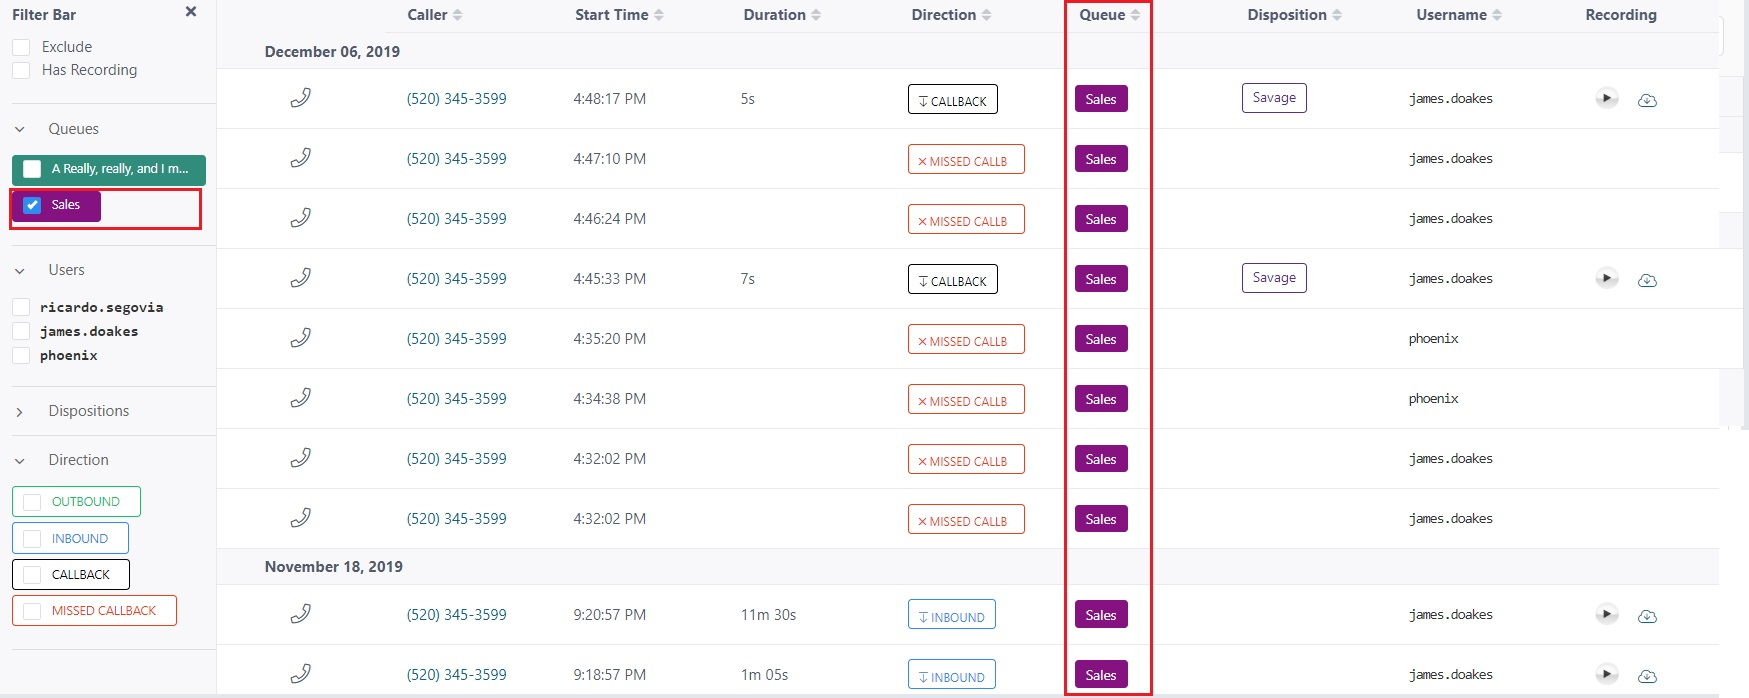
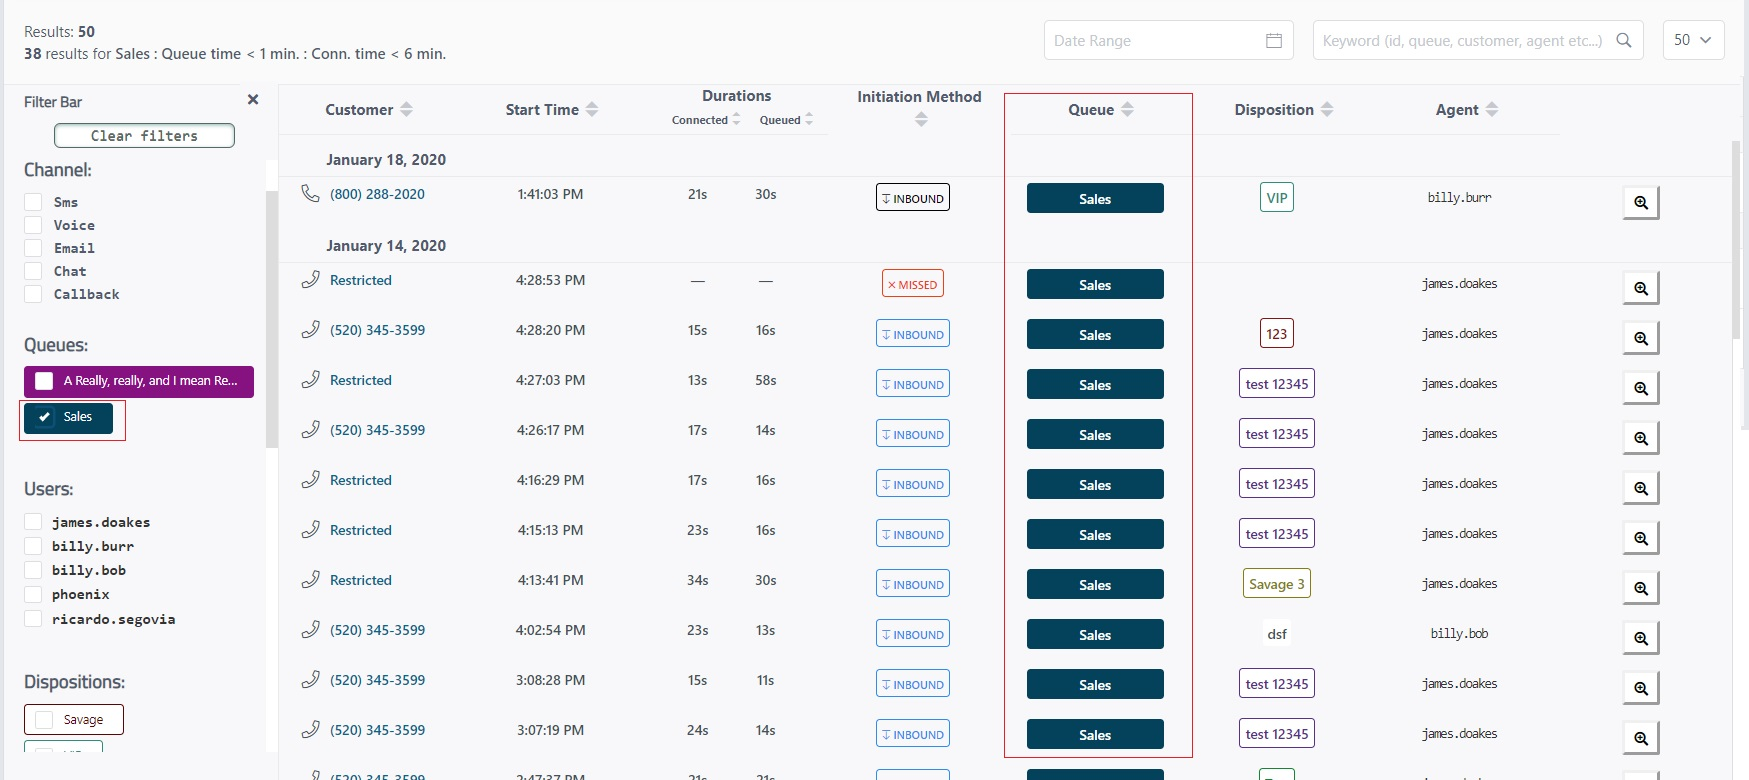
added release notes 0.9.0, edited engage, home, activity, directory

diff --git a/docs/_release_notes/release-v0.9.0-2020-01-19.md b/docs/_release_notes/release-v0.9.0-2020-01-19.md
@@ -1,0 +1,71 @@
+---
+title: "v0.9.0"
+excerpt_separator: "<!--more-->"
+collection: release_notes
+permalink: /:categories/:title/
+date: 2020-01-19
+layout: single
+toc: true
+toc_sticky: true
+categories:
+  - Release Notes
+sidebar:
+  nav: "docs"
+---
+
+## Dextr Release Notes, January 2020
+### Supported Browsers: 
+
+Google Chrome Version 75.0.3770.100 or later. Welcome to the January 2020 release of Dextr. 
+
+There are a number of updates in this version that we hope you like, and some of the key highlights include: 
+
+### Ad-hoc Quick-Connects
+
+Directory entries created in Dextr are now Amazon Connect quick connects. This allows agents to use them for transfer and conference destinations while on a call.
+
+<figure>
+   <img src="{{ '/assets/images/transfer-directory-contacts.jpg' }}" alt="Transfer Directory Contacts">
+   <span>Figure 1. Quick Connect / Directory Contacts</span>
+</figure>
+----
+
+### Global Directory
+
+Create directory entries that all agents can use for click-to-call, transferring and conferencing. 
+
+<figure>
+   <img src="{{ '/assets/images/global-contacts.jpg' }}" alt="Global Contacts">
+   <span>Figure 2. Global Directory entries</span>
+</figure>
+----
+
+### Team Status Durations 
+
+The team status drawer now shows status durations alongside each team member’s current status. You can check more information about this in [Home](/home/), in the Team Status Drawer section.
+
+<figure>
+   <img src="{{ '/assets/images/status-duration.jpg' }}" alt="Agent Status Duration">
+   <span>Figure 3. Team Status Duration</span>
+</figure>
+----
+
+### New Activity filters
+
+Filter current activity result set by Channel (Voice, Chat, Email, SMS and Callbacks), by Queued and Connected Durations. You can check more information about this in [Activity](/activity/).
+
+<figure>
+   <img src="{{ '/assets/images/activity-channel.jpg' }}" alt="Activity Channel">
+   <span>Figure 4. Activity  New Filters / Queue Duration </span>
+</figure>
+----
+
+### Bug fixes
+
+- Intermittently, the team status drawer wouldn't show an agent’s connected phone number.
+- Intermittently, an agent’s connected duration would not match with default CCP.
+- Notes added during a call wouldn't be shown in activity details page. 
+
+### Insiders: 
+
+Want to see new features as soon as possible? You can enroll in the beta program by emailing your Instance Alias to beta@dextr.cloud.  Try out the latest updates as soon as they are available.  

diff --git a/docs/_pages/activity.md b/docs/_pages/activity.md
@@ -49,12 +49,21 @@ Located at the left corner, it is used to filter and sort calls by:
 - Users. 
 - Direction. 
 - Disposition (if enabled). 
+- Channel.
+- Duration.
 
-If you click the label in one of the records corresponding to either Direction, Queue, Disposition or Username you also activate the filter.
+As of v0.9.0, Dextr enhanced the looks of the Activity dashboard. If you click the label in one of the records corresponding to either Direction, Queue, Disposition or Username you also activate the filter functionality (Figure 3).
 
 <figure>
    <img src="{{ '/assets/images/filter-bar.jpg' }}" alt="Filter bar">
-   <span>Figure 3. Filter bar</span>
+   <span>Figure 3. Filter bar functionality on dashboard</span>
+</figure>
+
+There is also Channel (SMS, Email, Voice, Chat, Callback) and Durations (Queued or Connected) filters to help you accomodate your search.
+
+<figure>
+   <img src="{{ '/assets/images/activity-durations-filter.jpg' }}" alt="Filter bar duration">
+   <span>Figure 4. Filter Bars Durations</span>
 </figure>
 ----
 
@@ -64,14 +73,14 @@ In the right corner of the dashboard there is a zoom icon that if clicked, enhan
 
 <figure>
    <img src="{{ '/assets/images/activity-details-1.jpg' }}" alt="Activity Details 1">
-   <span>Figure 4. Activity Dashboard Zoom Icon</span>
+   <span>Figure 5. Activity Dashboard Zoom Icon</span>
 </figure>
 
 This will show a richer metric view through different sections (General, Agent, Queue, Attributes). You also have the option to keep track of the interactions with a customer through the ***Related activity tab*** (bottom right corner), showing any previous interaction you had with the customer.
 
 <figure>
    <img src="{{ '/assets/images/activity-details-2.jpg' }}" alt="Activity Details 2">
-   <span>Figure 5. Activity Details with Related Activity</span>
+   <span>Figure 6. Activity Details with Related Activity</span>
 </figure>
 ----
 
@@ -81,7 +90,7 @@ On Activity Details you also have the option to add Notes per call by clicking t
 
 <figure>
    <img src="{{ '/assets/images/activity-note.jpg' }}" alt="Activity Notes">
-   <span>Figure 6. Activity Details Notes</span>
+   <span>Figure 7. Activity Details Notes</span>
 </figure>
 
 

diff --git a/docs/_pages/engage.md b/docs/_pages/engage.md
@@ -30,15 +30,20 @@ You can type / paste a number in the ***Quick Dial*** or click the numbers in th
 ----
 #### Call Transfers
 
-When on call you're also able to do call transfers, which can be either **Blind** or **Warm**: 
+When on call you're also able to do call transfers, and as of v0.9.0 Dextr can quick-connect to directory entries through either **Blind** or **Warm** transfers: 
 
-- **Blind** transfers gets the call on a selected Queue, making the contact wait until is taken by the next Available agent while also leaving you completely out of the call. 
+- **Blind** transfers gets the call either on a selected Queue or a Directory contact. If the transfer was done to a Queue it will  make the contact wait until is taken by the next Available agent while also leaving you completely out of the call. If it was done to a Directory contact, it will transfer the call directly to it.
 
-- **Warm** transfers on the other hand, allows you to remain and monitor the call when another agent takes it.
+- **Warm** transfers on the other hand, allows you to remain and monitor the call, also allowing you join it and enter **Conference Call** mode (Figure 2).
 
 <figure>
    <img src="{{ '/assets/images/transfer-call.gif' }}" alt="Call Transfer">
    <span>Gif 2. Call Transfer</span>
+</figure>
+
+<figure>
+   <img src="{{ '/assets/images/conference-call.jpg' }}" alt="Call Transfer">
+   <span>Figure 2. Conference Call</span>
 </figure>
 
 ----
@@ -63,7 +68,7 @@ If you right click any of the records, you can either copy the number or call it
 
 <figure>
    <img src="{{ '/assets/images/recent-calls.jpg' }}" alt="Recent Calls">
-   <span>Figure 2. Recent calls</span>
+   <span>Figure 3. Recent calls</span>
 </figure>
 ----
 
@@ -73,7 +78,7 @@ When creating contacts from the [Directory](/directory/), you can add them as fa
 
 <figure>
    <img src="{{ '/assets/images/engage-favorites.jpg' }}" alt="Engage Favorites">
-   <span>Figure 3. Engage Favorites section</span>
+   <span>Figure 4. Engage Favorites section</span>
 </figure>
 ----
 

diff --git a/docs/_pages/directory.md b/docs/_pages/directory.md
@@ -38,9 +38,18 @@ By clicking the **Edit** option you can add more information, change it, or dele
 
 #### Favoriting contacts
 
-This option will move the contact from your Personal list to your Favorite list by clicking the star symbol. This will also enable the Favorite panel in the Engage TAB, allowing you to see and quickly reach your Favorite contacts for calling. 
+This option will mark the contact from your Personal list as Favorite. This will enable you to see and quickly reach your Favorite contacts for calling in the Engage tab. 
 
 <figure>
-   <img src="{{ '/assets/images/favorites-directory.jpg' }}" alt="Favorites" style="height: 450px; width: 350px">
+   <img src="{{ '/assets/images/favorites-directory.jpg' }}" alt="Favorites">
 </figure>
-Figure 4. Favorites
+Figure 4. Favorites Contacts
+
+#### Global contacts
+
+By clicking the global checkbox when creating a contact, you create global entries/contacts that all agents present in the Instance can see from their directory.
+
+<figure>
+   <img src="{{ '/assets/images/global-entries.jpg' }}" alt="Global entries">
+</figure>
+Figure 5. Global contacts

diff --git a/docs/_pages/home.md b/docs/_pages/home.md
@@ -166,3 +166,18 @@ When an agent is on call and you see the **Connected** status in the Team Drawer
    <span>Figure 11. Silent Monitor & Whisper Coach</span>
 </figure>
 
+----
+
+#### Team Status Durations
+
+As of v0.9.0, Dextr is currently able to show the duration of each agent status. Team Status will update under 2 conditions: 
+- Approximately after 15 seconds have passed.
+- Whenever an Agent changes status, it will inmediatly update and display **Just now**.
+
+<figure>
+   <img src="{{ '/assets/images/agent-status-duration.jpg' }}" alt="Team Status Durations">
+   <span>Figure 12. Team Status Durations</span>
+</figure>
+
+
+
